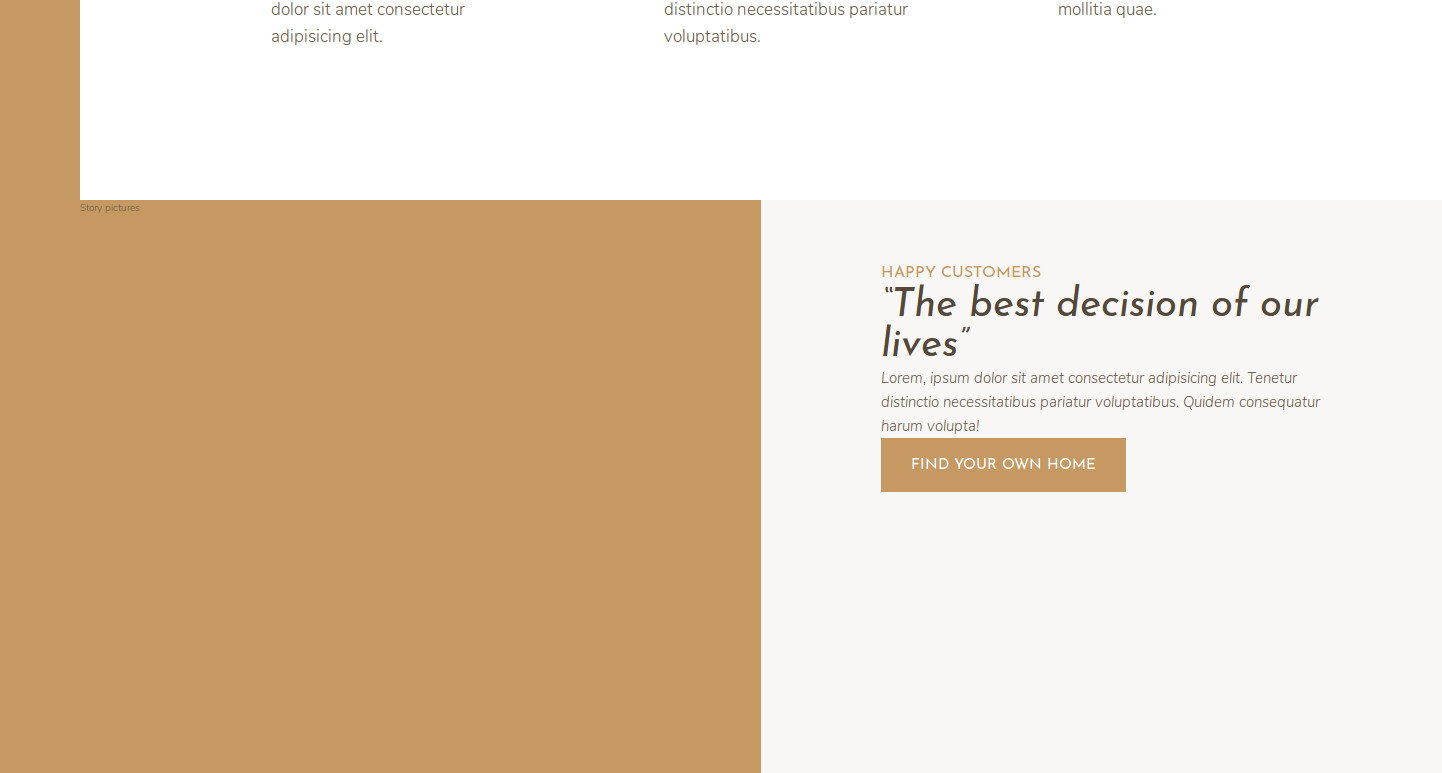
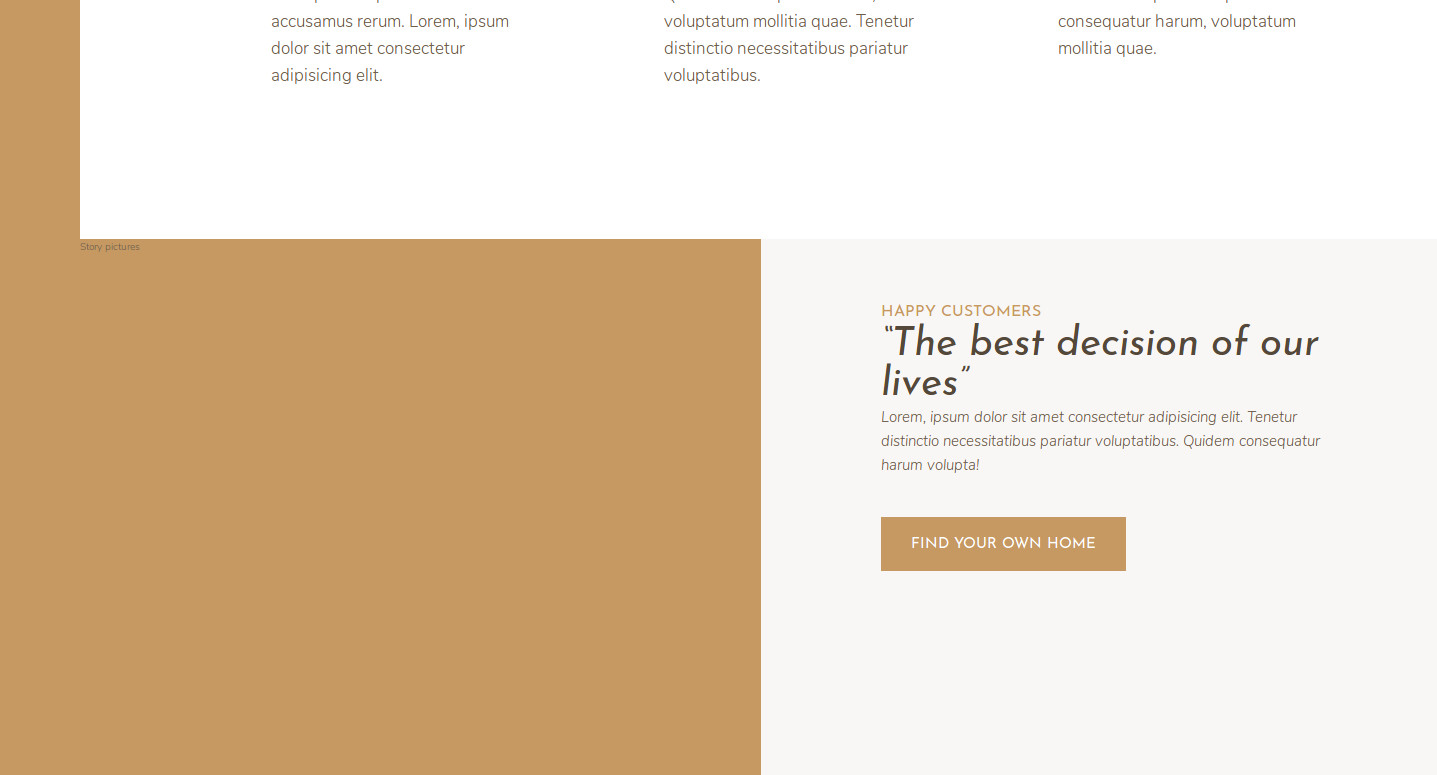
Create an reusable set of classes that set margins and push the button under the text more.

diff --git a/sass/_typography.scss b/sass/_typography.scss
@@ -59,3 +59,16 @@
     background-color: $color-primary-dark;
   }
 }
+
+.mb-sm {
+  margin-bottom: 2rem;
+}
+.mb-md {
+  margin-bottom: 3rem;
+}
+.mb-lg {
+  margin-bottom: 4rem;
+}
+.mb-hg {
+  margin-bottom: 8rem;
+}

diff --git a/sass/_story.scss b/sass/_story.scss
@@ -14,5 +14,6 @@
   &__text {
     font-size: 1.5rem;
     font-style: italic;
+    margin-bottom: 4rem;
   }
 }
